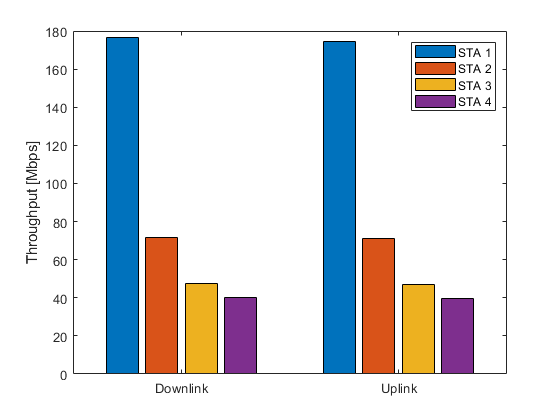
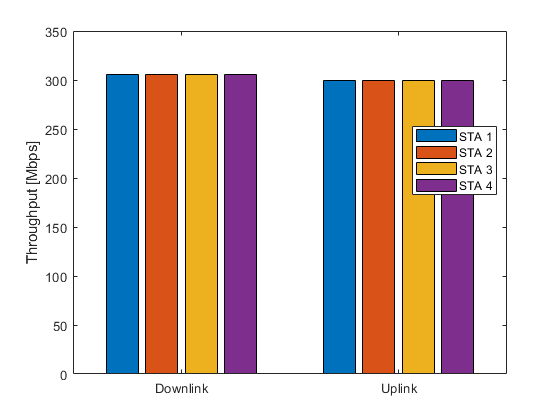
optimization algorithm fixed

diff --git a/wifiTransmissionTimeBasic.m b/wifiTransmissionTimeBasic.m
@@ -19,29 +19,97 @@
 % és per que agreguen menys paquets. Això és fàcil de comprovar en tot cas. Altrament,
 % força que agreguin totes 64 paquets, indep de si triguen més de 5ms, i a veure que surt.
 
-function [SU_DL_Time, SU_UL_Time, Nframes] = wifiTransmissionTimeBasic(nSTAs, L_data, BW, MCS, MCSbasic, NSS, distance)
+function [SU_DL_Time, SU_UL_Time, Nframes] = wifiTransmissionTimeBasic(nSTAs, NSS, P_rx, L_data, distance, optimization)
 
 dprop = distance/3E8; % Propagation delay
 Nframes = 256; % number of aggregated frames in A-MPDU
 
-switch BW
-    case 20
-        Ns = 234; % 242-Tone RU
-
-    case 40
-        Ns = 468; % 484-Tone RU
-
-    case 80
-        Ns = 980; % 996-Tone RU
-
-    case 160
-        Ns = 2 * 980; % 2x996 Tone RU
-
-    case 320
-        Ns = 4 * 980; % 11be (at 6 GHz)
-
-    otherwise
-        Ns = -1;
+if optimization == 1
+    [DBPS, DBPSbasic] = mcsOptimization(P_rx, NSS);
+else
+    BW = 80; % change to obtain different results
+    switch BW % selects the number of subcarriers
+        case 20
+            Ns = 234; % 242-Tone RU
+        case 40
+            Ns = 468; % 484-Tone RU
+        case 80
+            Ns = 980; % 996-Tone RU
+        case 160
+            Ns = 2 * 980; % 2x996 Tone RU
+        case 320
+            Ns = 4 * 980; % 11be (at 6 GHz)
+        otherwise
+            Ns = -1;
+    end
+    MCS = modulationSelection(BW, P_rx);
+    MCSbasic = MCS;
+    switch MCS
+        case 0
+            DBPS = 1/2 * 1; % BPSK
+        case 1
+            DBPS = 1/2 * 2; % QPSK
+        case 2
+            DBPS = 3/4 * 2; % QPSK
+        case 3
+            DBPS = 2/3 * 4; % 16-QAM
+        case 4
+            DBPS = 3/4 * 4; % 16-QAM
+        case 5
+            DBPS = 2/3 * 6; % 64-QAM
+        case 6
+            DBPS = 3/4 * 6; % 64-QAM
+        case 7
+            DBPS = 5/6 * 6; % 64-QAM
+        case 8
+            DBPS = 3/4 * 8; % 256-QAM
+        case 9
+            DBPS = 5/6 * 8; % 256-QAM
+        case 10
+            DBPS = 3/4 * 10; % 1024-QAM
+        case 11
+            DBPS = 5/6 * 10; % 1024-QAM
+        case 12
+            DBPS = 3/4 * 12; % 4096-QAM
+        case 13
+            DBPS = 5/6 * 12; % 4096-QAM
+        otherwise
+            DBPS = 0;
+    end
+    switch MCSbasic
+        case 0
+            DBPSbasic = 1/2 * 1; % BPSK
+        case 1
+            DBPSbasic = 1/2 * 2; % QPSK
+        case 2
+            DBPSbasic = 3/4 * 2; % QPSK
+        case 3
+            DBPSbasic = 2/3 * 4; % 16-QAM
+        case 4
+            DBPSbasic = 3/4 * 4; % 16-QAM
+        case 5
+            DBPSbasic = 2/3 * 6; % 64-QAM
+        case 6
+            DBPSbasic = 3/4 * 6; % 64-QAM
+        case 7
+            DBPSbasic = 5/6 * 6; % 64-QAM
+        case 8
+            DBPSbasic = 3/4 * 8; % 256-QAM
+        case 9
+            DBPSbasic = 5/6 * 8; % 256-QAM
+        case 10
+            DBPSbasic = 3/4 * 10; % 1024-QAM
+        case 11
+            DBPSbasic = 5/6 * 10; % 1024-QAM
+        case 12
+            DBPSbasic = 3/4 * 12; % 4096-QAM
+        case 13
+            DBPSbasic = 5/6 * 12; % 4096-QAM
+        otherwise
+            DBPSbasic = 0;
+    end
+    DBPS = DBPS * Ns * NSS;
+    DBPSbasic = DBPSbasic * Ns;
 end
 
 BOslots = 7.5; % BE AC
@@ -66,77 +134,6 @@ L_delimiter = 31 * 8;
 SIFS = 10E-6; % Short Inter-Frame Space
 DIFS = 31E-6; % Distributed Inter-Frame Space
 B_slot = 9E-6;
-
-DBPS = 0;
-
-switch MCS
-    case 0 
-        DBPS = 1/2*1; % BPSK
-    case 1
-        DBPS = 1/2*2; % QPSK
-    case 2
-        DBPS = 3/4*2; % QPSK
-    case 3
-        DBPS = 2/3*4; % 16-QAM
-    case 4
-        DBPS = 3/4*4; % 16-QAM
-    case 5
-        DBPS = 2/3*6; % 64-QAM
-    case 6
-        DBPS = 3/4*6; % 64-QAM
-    case 7
-        DBPS = 5/6*6; % 64-QAM
-    case 8
-        DBPS = 3/4*8; % 256-QAM
-    case 9
-        DBPS = 5/6*8; % 256-QAM
-    case 10
-        DBPS = 3/4*10; % 1024-QAM
-    case 11
-        DBPS = 5/6*10; % 1024-QAM
-    case 12
-        DBPS = 3/4*12; % 4096-QAM
-    case 13
-        DBPS = 5/6*12; % 4096-QAM
-    otherwise
-        DBPS = 0;
-end
-
-switch MCSbasic
-    case 0 
-        DBPSbasic = 1/2*1; % BPSK
-    case 1
-        DBPSbasic = 1/2*2; % QPSK
-    case 2
-        DBPSbasic = 3/4*2; % QPSK
-    case 3
-        DBPSbasic = 2/3*4; % 16-QAM
-    case 4
-        DBPSbasic = 3/4*4; % 16-QAM
-    case 5
-        DBPSbasic = 2/3*6; % 64-QAM
-    case 6
-        DBPSbasic = 3/4*6; % 64-QAM
-    case 7
-        DBPSbasic = 5/6*6; % 64-QAM
-    case 8
-        DBPSbasic = 3/4*8; % 256-QAM
-    case 9
-        DBPSbasic = 5/6*8; % 256-QAM
-    case 10
-        DBPSbasic = 3/4*10; % 1024-QAM
-    case 11
-        DBPSbasic = 5/6*10; % 1024-QAM
-    case 12
-        DBPSbasic = 3/4*12; % 4096-QAM
-    case 13
-        DBPSbasic = 5/6*12; % 4096-QAM
-    otherwise
-        DBPSbasic = 0;
-end
-
-DBPS = DBPS * Ns * NSS;
-DBPSbasic = DBPSbasic * Ns;
 
 % duration of control frames
 T_bo = BOslots * B_slot; % backoff slot 
@@ -177,6 +174,5 @@ MU_DL_Time = T_MUrts + dprop + SIFS + T_cts + dprop + SIFS + T_data_MU_DL + ...
 % Multi User Uplink Transmission (MU UL)
 MU_UL_Time = T_MUrts + dprop + SIFS + T_cts + dprop + SIFS + T_trigger + ...
     dprop + SIFS + T_data_MU_UL + dprop + SIFS + T_MSBack + dprop + DIFS; 
-
 
 end

diff --git a/mcsOptimization.m b/mcsOptimization.m
@@ -1,30 +1,82 @@
 
 
 
-function [best_BW, MCS, MCSbasic] = mcsOptimization(BW, P_rx)
+function [DBPS, DBPSbasic] = mcsOptimization(P_rx, NSS)
 
-    % BW = [20, 40, 80, 160, 320];
-    nBW = size(BW, 2);
-    possible_MCS = zeros(1, nBW); % initialize possible_MCS array
+    possible_BW = [20, 40, 80, 160, 320];
+    Nsubc = [234, 468, 980, 1960, 3920]; % num. subcarriers
+    n = size(possible_BW, 2);
+    possible_MCS = zeros(1, n); % initialize possible_MCS array
+    possible_dBPS = zeros(1, n);
 
     % get all possible MCS
-    for i = 1:nBW
-        possible_MCS(i) = modulationSelection(BW(i), P_rx);
+    for i = 1:n
+        possible_MCS(i) = modulationSelection(possible_BW(i), P_rx);
     end
 
-    indx = find(max(possible_MCS)); % get the maximum MCS position in the array
+    for i = 1:n
 
-    while possible_MCS(indx) == possible_MCS(indx + 1)
-
-        indx = indx + 1;
-        if indx == nBW
-            break;
+        switch possible_MCS(i)
+            case 0
+                rate(i) = 1/2 * 1; % BPSK
+            case 1
+                rate(i) = 1/2 * 2; % QPSK
+            case 2
+                rate(i) = 3/4 * 2; % QPSK
+            case 3
+                rate(i) = 2/3 * 4; % 16-QAM
+            case 4
+                rate(i) = 3/4 * 4; % 16-QAM
+            case 5
+                rate(i) = 2/3 * 6; % 64-QAM
+            case 6
+                rate(i) = 3/4 * 6; % 64-QAM
+            case 7
+                rate(i) = 5/6 * 6; % 64-QAM
+            case 8
+                rate(i) = 3/4 * 8; % 256-QAM
+            case 9
+                rate(i) = 5/6 * 8; % 256-QAM
+            case 10
+                rate(i) = 3/4 * 10; % 1024-QAM
+            case 11
+                rate(i) = 5/6 * 10; % 1024-QAM
+            case 12
+                rate(i) = 3/4 * 12; % 4096-QAM
+            case 13
+                rate(i) = 5/6 * 12; % 4096-QAM
+            otherwise
+                rate(i) = 0;
         end
-
     end
 
-    MCS = possible_MCS(indx);
-    MCSbasic = MCS;
-    best_BW = BW(indx);
+    for i = 1:n
+        possible_dBPS(i) = rate(i) * Nsubc(i) * NSS;
+    end
 
+    % indx = find(max(possible_dBPS));
+    aux = max(possible_dBPS);
+    indx = find(possible_dBPS == aux);
+    BW = possible_BW(indx);
+
+    switch BW % selects the number of subcarriers
+        case 20
+            Ns = 234; % 242-Tone RU
+        case 40
+            Ns = 468; % 484-Tone RU
+        case 80
+            Ns = 980; % 996-Tone RU
+        case 160
+            Ns = 2 * 980; % 2x996 Tone RU
+        case 320
+            Ns = 4 * 980; % 11be (at 6 GHz)
+        otherwise
+            Ns = -1;
+    end
+
+    DBPS = rate(indx);
+    DBPSbasic = rate(indx);
+    
+    DBPS = DBPS * Ns * NSS;
+    DBPSbasic = DBPSbasic * Ns;
 end

diff --git a/simulation.m b/simulation.m
@@ -7,11 +7,11 @@ b = 15; h = 15;   % base & height dimensions in 'meters'
 AP = [b/2 h/2];   % central access point
 nSTAs = 4;        % number of stations
 MaxCycles = 1e6;  % # round robin cycles
-NSS = 4;          % SU spatial streams.
+NSS = 2;          % SU spatial streams.
 length = 12e3;    % data packet size (bits)
 SuccTx = zeros(1, nSTAs);
 
-optimization_flag = 1;  % 1 - to activate MCS & BW optimization algorithm 0 - otherwise
+optimization = 1;  % 1 - to activate MCS & BW optimization algorithm 0 - otherwise
 draw = 0;               % 1 - to plot the room 0 - otherwise.
 
 if draw == 1
@@ -26,7 +26,7 @@ drawScenario(draw, b, h, P_rx, distance);
 
 % round-robin
 [SuccTx, DL_time, UL_time, frames] = roundRobin(MaxCycles, nSTAs, ... 
-NSS, P_rx, length, distance, SuccTx, optimization_flag);
+NSS, P_rx, length, distance, SuccTx, optimization);
 
 % throughput calculus
 throughput(nSTAs, SuccTx, length, MaxCycles, DL_time, UL_time, frames)

diff --git a/roundRobin.m b/roundRobin.m
@@ -1,7 +1,7 @@
 
 
 
-function [SuccTx, DL_time, UL_time, frames] = roundRobin(MaxCycles, nSTAs, NSS, P_rx, length, distance, SuccTx, optimization_flag)
+function [SuccTx, DL_time, UL_time, frames] = roundRobin(MaxCycles, nSTAs, NSS, P_rx, length, distance, SuccTx, optimization)
 
     DL_TxSTA = zeros(1, nSTAs);
     UL_TxSTA = zeros(1, nSTAs);
@@ -14,7 +14,7 @@ function [SuccTx, DL_time, UL_time, frames] = roundRobin(MaxCycles, nSTAs, NSS, 
         for j = 1:nSTAs
             % Ts = TxToSTA(j); % transmition time of each station
             [DL_TxSTA(j), UL_TxSTA(j), Nframes] = STATransmissionTime(nSTAs, NSS, P_rx(j), ... 
-                length, distance(j), optimization_flag);
+                length, distance(j), optimization);
             if i < 2
                 frames(j) = Nframes;
             end

diff --git a/STATransmissionTime.m b/STATransmissionTime.m
@@ -1,17 +1,8 @@
 
 
 
-function [DL_TxToSTA, UL_TxToSTA, Nframes] = STATransmissionTime(nSTAs, NSS, P_rx, Length, distance, optimization_flag)
+function [DL_TxToSTA, UL_TxToSTA, Nframes] = STATransmissionTime(nSTAs, NSS, P_rx, Length, distance, optimization)
 
-    if optimization_flag == 1
-        BW = [20, 40, 80, 160, 320];
-        [best_BW, MCS, MCSbasic] = mcsOptimization(BW, P_rx);
-    else
-        best_BW = 160; % change to obtain different results
-        MCS = modulationSelection(best_BW, P_rx);
-        MCSbasic = MCS;
-    end
-
-    [DL_TxToSTA, UL_TxToSTA, Nframes] = wifiTransmissionTimeBasic(nSTAs, Length, best_BW, MCS, MCSbasic, NSS, distance);
+[DL_TxToSTA, UL_TxToSTA, Nframes] = wifiTransmissionTimeBasic(nSTAs, NSS, P_rx, Length, distance, optimization);
 
 end

diff --git a/README.md b/README.md
@@ -3,4 +3,10 @@
 ## Developers 
 * [Alex Burgo](https://github.com/AlexBurgo) 
 
+Results obtained with the following parameters:
+* nSTAs = 4
+* NSS = 2
+* Optimization ON
+* Fixed Positions
+
 ![](images/A-MPDU_OPTI.png)
